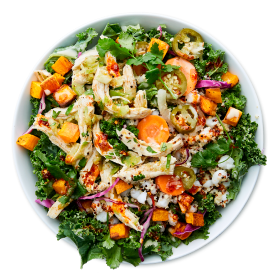
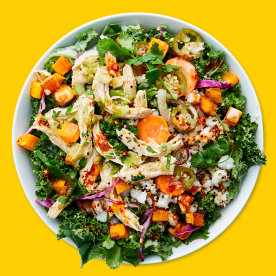
home page set

diff --git a/src/component/Footer.jsx b/src/component/Footer.jsx
@@ -1,8 +1,62 @@
 import React from 'react'
+import { Link } from "react-router-dom";
 
 const Footer = () => {
   return (
-    <div className='h-24 bg-yellow'>Footer</div>
+    <footer className="bg-white ">
+      <div className="sitesize bg-slate-100 footer text-black p-10">
+  <nav>
+    <h6 className="footer-title">Our Services</h6>
+    <Link to="#" className="link link-hover">Fast delivary </Link>
+    <Link to="#" className="link link-hover">Catering </Link>
+    <Link to="#" className="link link-hover">Take Away</Link>
+    <Link to="#" className="link link-hover">Diet Plans</Link>
+  </nav>
+  <nav>
+    <h6 className="footer-title">Company</h6>
+    <Link to="#" className="link link-hover">About us</Link>
+    <Link to="#" className="link link-hover">Contact</Link>
+    
+  </nav>
+  <nav>
+    <h6 className="footer-title">Social</h6>
+    <div className="grid grid-flow-col gap-4">
+      <Link to="#">
+        <svg
+          xmlns="http://www.w3.org/2000/svg"
+          width="24"
+          height="24"
+          viewBox="0 0 24 24"
+          className="fill-current">
+          <path
+            d="M24 4.557c-.883.392-1.832.656-2.828.775 1.017-.609 1.798-1.574 2.165-2.724-.951.564-2.005.974-3.127 1.195-.897-.957-2.178-1.555-3.594-1.555-3.179 0-5.515 2.966-4.797 6.045-4.091-.205-7.719-2.165-10.148-5.144-1.29 2.213-.669 5.108 1.523 6.574-.806-.026-1.566-.247-2.229-.616-.054 2.281 1.581 4.415 3.949 4.89-.693.188-1.452.232-2.224.084.626 1.956 2.444 3.379 4.6 3.419-2.07 1.623-4.678 2.348-7.29 2.04 2.179 1.397 4.768 2.212 7.548 2.212 9.142 0 14.307-7.721 13.995-14.646.962-.695 1.797-1.562 2.457-2.549z"></path>
+        </svg>
+      </Link>
+      <Link to="#">
+        <svg
+          xmlns="http://www.w3.org/2000/svg"
+          width="24"
+          height="24"
+          viewBox="0 0 24 24"
+          className="fill-current">
+          <path
+            d="M19.615 3.184c-3.604-.246-11.631-.245-15.23 0-3.897.266-4.356 2.62-4.385 8.816.029 6.185.484 8.549 4.385 8.816 3.6.245 11.626.246 15.23 0 3.897-.266 4.356-2.62 4.385-8.816-.029-6.185-.484-8.549-4.385-8.816zm-10.615 12.816v-8l8 3.993-8 4.007z"></path>
+        </svg>
+      </Link>
+      <Link to="#">
+        <svg
+          xmlns="http://www.w3.org/2000/svg"
+          width="24"
+          height="24"
+          viewBox="0 0 24 24"
+          className="fill-current">
+          <path
+            d="M9 8h-3v4h3v12h5v-12h3.642l.358-4h-4v-1.667c0-.955.192-1.333 1.115-1.333h2.885v-5h-3.808c-3.596 0-5.192 1.583-5.192 4.615v3.385z"></path>
+        </svg>
+      </Link>
+    </div>
+  </nav></div>
+</footer>
   )
 }
 

diff --git a/src/component/Services.jsx b/src/component/Services.jsx
@@ -1,0 +1,66 @@
+// import React from 'react'
+
+const Services = () => {
+  const services = [
+    {
+      id: 0,
+      title: "Fast Delivery",
+      description:
+        "Get your food delivered quickly and efficiently, ensuring your meal arrives hot and fresh.",
+      img: "/images//service/online.png",
+    },
+    {
+      id: 1,
+      title: "Catering Services",
+      description:
+        "Professional catering for events of all sizes, tailored to meet your specific needs.",
+      img: "/images/service/catering.png",
+    },
+    {
+      id: 2,
+      title: "Takeaway",
+      description:
+        "Order online or by phone and pick up your meal at your convenience.",
+      img: "/images/service/take.png",
+    },
+    {
+      id: 3,
+      title: "Special Dietary Options",
+      description: "Vegetarian, vegan, gluten-free, and low-carb options available to accommodate all dietary preferences.",
+      img: "/images/service/diet.png",
+    },
+  ];
+  return (
+    <section className="sitesize flex flex-col items-center justify-center ">
+      
+        <h5 className="title">
+          Discover Our Offerings
+        </h5>
+        <p className="text-xl font-secondary w-1/2 text-center py-4 text-gray-500">Delve into the joy of delicious dining with Foodie Frenzy. Whether you're enjoying a meal with ordering online, we provide an exceptional culinary experience with a diverse menu to satisfy every palate.</p>
+      
+      {/* right */}
+      <div className=" grid grid-cols-1 md:grid-cols-2 justify-center items-center gap-8 p-14">
+      {services.map((survice, index) => {
+          return (
+            <div
+              key={index}
+              className=" flex flex-col md:flex-row items-center justify-center gap-8 p-3 shadow-xl md:h-72 hover:bg-slate-50 rounded-xl"
+            >
+              <img
+                src={survice.img}
+                alt={survice.title}
+                className="bg-yellow h-40 w-40 p-px rounded-full"
+              />
+              <div className="flex flex-col gap-4">
+                <h4 className="text-2xl text-black font-heading mt-3">{survice.title}</h4>
+                <p className="text-gray-500 text-lg font-secondary md:w-3/4   ">{survice.description}</p>
+              </div>
+            </div>
+          );
+        })}
+      </div>
+    </section>
+  );
+};
+
+export default Services;

diff --git a/src/component/Card.jsx b/src/component/Card.jsx
@@ -4,9 +4,9 @@ const Card = ({ cardItem }) => {
   return (
     <div className=" py-14">
       <Link to={`/menu/${cardItem._id}`}>
-        <div className=" transition ease-in-out delay-150 cursor-pointer hover:bg-slate-50 rounded-xl hover:-translate-y-1 hover:scale-110  duration-300  card bg-white text-black w-96 hover:shadow-xl">
+        <div className=" transition ease-in-out delay-150 cursor-pointer  hover:bg-slate-50 rounded-xl hover:-translate-y-1 hover:z-40 hover:scale-110  duration-300  card bg-white text-black w-96 hover:shadow-xl">
           <figure>
-            <img src={cardItem.image} alt="Shoes" />
+            <img src={cardItem.image} alt="Shoes"  className="bg-yellow bgshaper"/>
           </figure>
           <div className="card-body">
             <h2 className="card-title">{cardItem.name}</h2>

diff --git a/src/pages/Home.jsx b/src/pages/Home.jsx
@@ -2,13 +2,15 @@ import React from 'react'
 import Banner from '../component/Banner'
 import Catagories from '../component/Catagories'
 import Specialdish from '../component/Specialdish'
+import Services from '../component/Services'
 
 const Home = () => {
   return (
-    <div className='bg-white '>
+    <div className=' bg-white '>
       <Banner/>
       <Catagories/>
       <Specialdish/>
+      <Services/>
     </div>
   )
 }

diff --git a/src/index.css b/src/index.css
@@ -20,3 +20,8 @@
 .title {
   @apply capitalize font-heading text-black text-center py-4 font-semibold text-lg md:text-4xl;
 }
+
+
+.bgshaper{
+  border-radius: 40% 20% 40% 20%  ;
+}
